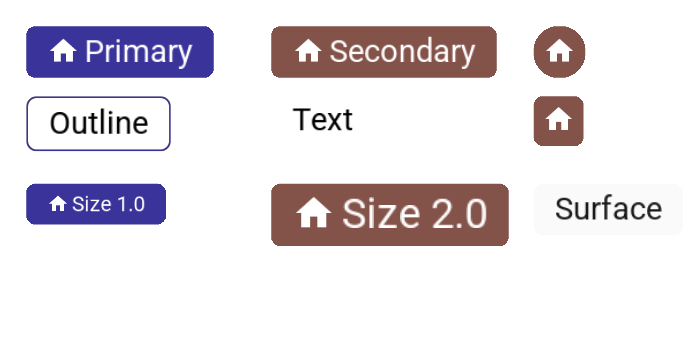
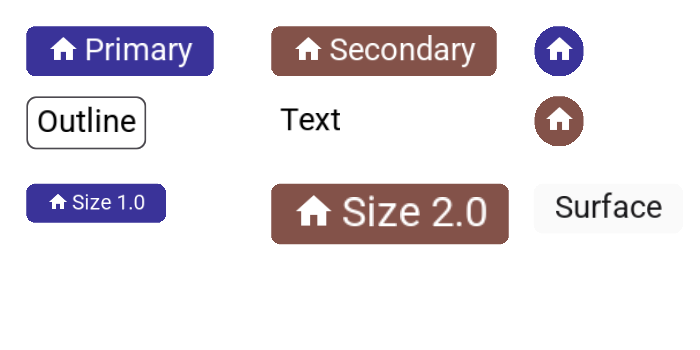
Restructured buttons

diff --git a/btn/button.go b/btn/button.go
@@ -24,36 +24,48 @@ type Style struct {
 	Disabled       *bool
 }
 
-var Default = Style{
+var Filled = &Style{
 	FontSize:       1.5,
 	FontNo:         gpu.Normal,
 	BtnRole:        theme.Primary,
 	BorderColor:    theme.Primary,
 	OutsidePadding: f32.Padding{L: 5, T: 5, R: 5, B: 5},
-	InsidePadding:  f32.Padding{L: 5, T: 5, R: 5, B: 5},
+	InsidePadding:  f32.Padding{L: 12, T: 5, R: 12, B: 5},
 	BorderWidth:    0,
 	CornerRadius:   6,
 	Disabled:       nil,
 }
 
-var Text = Style{
+var Text = &Style{
 	FontSize:       1.5,
 	FontNo:         gpu.Normal,
 	BtnRole:        theme.Transparent,
 	BorderColor:    theme.Transparent,
-	OutsidePadding: f32.Padding{L: 5, T: 1, R: 5, B: 1},
+	OutsidePadding: f32.Padding{L: 5, T: 5, R: 5, B: 1},
 	InsidePadding:  f32.Padding{L: 5, T: 5, R: 5, B: 5},
 	BorderWidth:    0,
 	CornerRadius:   0,
 	Disabled:       nil,
 }
 
-var Round = Style{
+var Outline = &Style{
+	FontSize:       1.5,
+	FontNo:         gpu.Normal,
+	BtnRole:        theme.Transparent,
+	BorderColor:    theme.Outline,
+	OutsidePadding: f32.Padding{L: 5, T: 5, R: 5, B: 1},
+	InsidePadding:  f32.Padding{L: 5, T: 5, R: 5, B: 5},
+	BorderWidth:    1,
+	CornerRadius:   6,
+	Disabled:       nil,
+}
+
+var Round = &Style{
 	FontSize:       1.5,
 	FontNo:         gpu.Normal,
 	BtnRole:        theme.Primary,
 	BorderColor:    theme.Transparent,
-	OutsidePadding: f32.Padding{L: 5.5, T: 6, R: 5, B: 5},
+	OutsidePadding: f32.Padding{L: 5.5, T: 5, R: 5, B: 5},
 	InsidePadding:  f32.Padding{L: 5, T: 5, R: 5, B: 5},
 	BorderWidth:    0,
 	CornerRadius:   -1,
@@ -72,22 +84,16 @@ func (s *Style) Size(y float32) *Style {
 	return &ss
 }
 
-func Size(y float32) *Style {
-	ss := Default
-	ss.FontSize = y
-	return &ss
-}
-
-func Role(r theme.UIRole) *Style {
-	ss := Default
-	ss.BtnRole = r
+func (s *Style) RR(r float32) *Style {
+	ss := *s
+	ss.CornerRadius = r
 	return &ss
 }
 
 func Btn(text string, ic *icon.Icon, action func(), style *Style, hint string) wid.Wid {
 	return func(ctx wid.Ctx) wid.Dim {
 		if style == nil {
-			style = &Default
+			style = Filled
 		}
 		f := font.Fonts[style.FontNo]
 		fontHeight := f.Height(style.FontSize)

diff --git a/examples/Demo/main.go b/examples/Demo/main.go
@@ -88,23 +88,23 @@ func Form() wid.Wid {
 			btn.Switch("Dark mode", &lightMode, nil, nil, ""),
 		),
 		wid.Row(nil,
-			btn.Btn("Primary", icon.Home, set0, btn.Role(theme.Primary), ""),
-			btn.Btn("Secondary", icon.ContentOpen, set1, btn.Role(theme.Secondary), ""),
-			btn.Btn("Surface", icon.ContentSave, set2, btn.Role(theme.Surface), ""),
-			btn.Btn("Container", icon.RadioChecked, set3, btn.Role(theme.SurfaceContainer), ""),
-			btn.Btn("", icon.Home, set5, &btn.Round, ""),
+			btn.Btn("Primary", icon.Home, set0, btn.Filled, ""),
+			btn.Btn("Secondary", icon.ContentOpen, set1, btn.Filled.Role(theme.Secondary), ""),
+			btn.Btn("Surface", icon.ContentSave, set2, btn.Filled.Role(theme.Surface), ""),
+			btn.Btn("Outline", icon.RadioChecked, set3, btn.Outline, ""),
+			btn.Btn("", icon.Home, set5, btn.Round, ""),
 		),
 		wid.Row(nil,
 			wid.Elastic(),
-			btn.Btn("Primary", icon.Home, set0, btn.Role(theme.Primary), ""),
+			btn.Btn("Primary", icon.Home, set0, btn.Filled, ""),
 			wid.Elastic(),
-			btn.Btn("Secondary", icon.ContentOpen, set1, btn.Role(theme.Secondary), ""),
+			btn.Btn("Secondary", icon.ContentOpen, set1, btn.Filled.Role(theme.Secondary), ""),
 			wid.Elastic(),
-			btn.Btn("Surface", icon.ContentSave, set2, btn.Role(theme.Surface), ""),
+			btn.Btn("Surface", icon.ContentSave, set2, btn.Filled.Role(theme.Surface), ""),
 			wid.Elastic(),
-			btn.Btn("Container", icon.RadioChecked, set3, btn.Role(theme.SurfaceContainer), ""),
+			btn.Btn("Outline", icon.RadioChecked, set3, btn.Outline, ""),
 			wid.Elastic(),
-			btn.Btn("", icon.Home, set5, &btn.Round, ""),
+			btn.Btn("", icon.Home, set5, btn.Round, ""),
 			wid.Elastic(),
 		),
 		wid.DisableIf(&disabled,

diff --git a/examples/Test/button_test.go b/examples/Test/button_test.go
@@ -28,15 +28,15 @@ func TestButtons(t *testing.T) {
 	gpu.BackgroundColor(f32.White)
 
 	// Draw buttons
-	wid.Show(10, 10, btn.Filled("Primary", icon.Home, nil, btn.Role(theme.Primary), ""))
-	wid.Show(150, 10, btn.Filled("Secondary", icon.Home, nil, btn.Role(theme.Secondary), ""))
-	wid.Show(300, 10, btn.Round(icon.Home, nil, btn.Default.Role(theme.Secondary), ""))
-	wid.Show(10, 50, btn.Outline("Outline", nil, nil, btn.Role(theme.Surface), ""))
-	wid.Show(150, 50, btn.Text("Text", nil, nil, btn.Role(theme.SurfaceContainer), ""))
-	wid.Show(300, 50, btn.Filled("", icon.Home, nil, btn.Role(theme.Secondary), ""))
-	wid.Show(10, 100, btn.Filled("Size 1.0", icon.Home, nil, btn.Role(theme.Primary).Size(1.0), ""))
-	wid.Show(150, 100, btn.Filled("Size 2.0", icon.Home, nil, btn.Role(theme.Secondary).Size(2.0), ""))
-	wid.Show(300, 100, btn.Filled("Surface", nil, nil, btn.Role(theme.Surface), ""))
+	wid.Show(10, 10, btn.Btn("Primary", icon.Home, nil, btn.Filled, ""))
+	wid.Show(150, 10, btn.Btn("Secondary", icon.Home, nil, btn.Filled.Role(theme.Secondary), ""))
+	wid.Show(300, 10, btn.Btn("", icon.Home, nil, btn.Round, ""))
+	wid.Show(10, 50, btn.Btn("Outline", nil, nil, btn.Outline, ""))
+	wid.Show(150, 50, btn.Btn("Text", nil, nil, btn.Text, ""))
+	wid.Show(300, 50, btn.Btn("", icon.Home, nil, btn.Round.Role(theme.Secondary), ""))
+	wid.Show(10, 100, btn.Btn("Size 1.0", icon.Home, nil, btn.Filled.Size(1.0), ""))
+	wid.Show(150, 100, btn.Btn("Size 2.0", icon.Home, nil, btn.Filled.Role(theme.Secondary).Size(2.0), ""))
+	wid.Show(300, 100, btn.Btn("Surface", nil, nil, btn.Filled.Role(theme.Surface), ""))
 
 	// Verify resulting image
 	VerifyScreen(t, "TestButtons", 400, 200, saveScreen)
